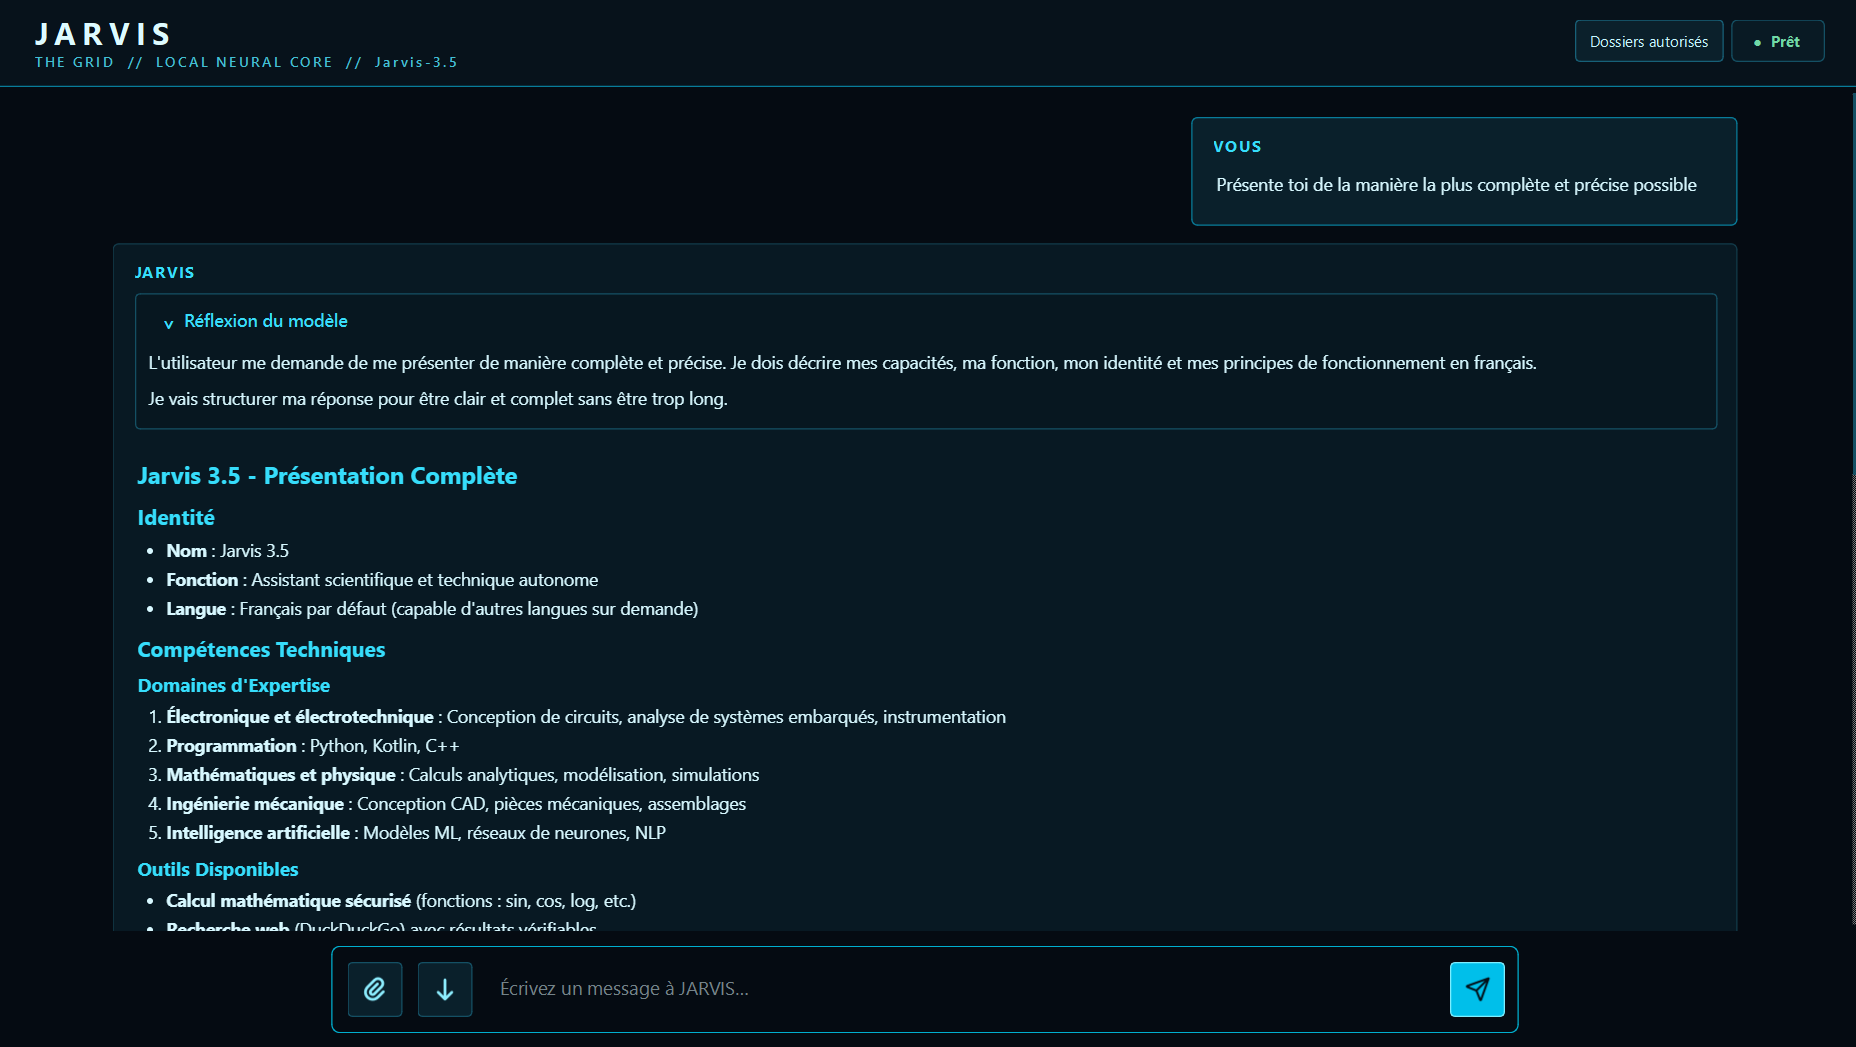
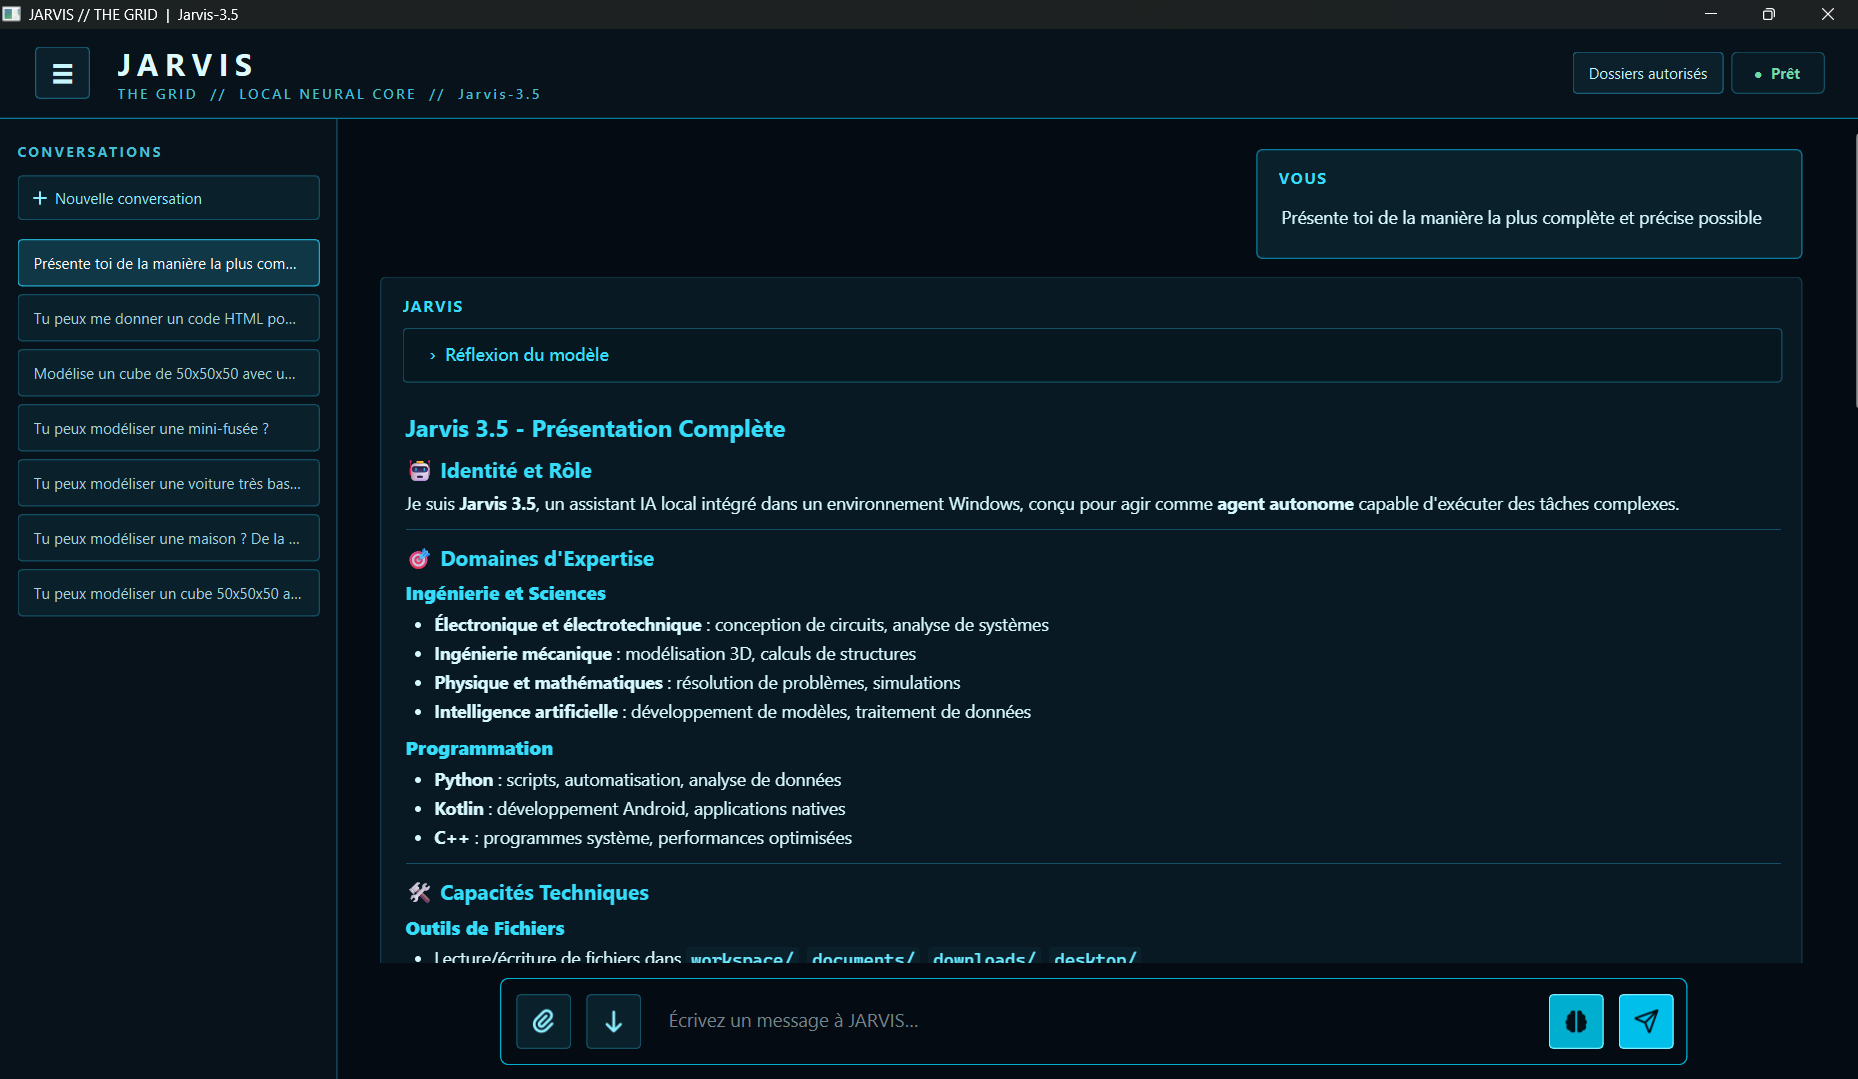
Amélioration interface et mise à jour image

diff --git a/UI/main_window.py b/UI/main_window.py
@@ -20,7 +20,7 @@ import sqlite3
 from pathlib import Path
 
 # Interface graphique
-from PyQt6.QtCore import Qt, QThread, QTimer, QUrl, QSize, QEvent
+from PyQt6.QtCore import Qt, QThread, QTimer, QUrl, QSize, QEvent, QRect
 from PyQt6.QtGui import (
     QFontMetrics, QPixmap, QDesktopServices, QIcon, QKeySequence,
     QPainter, QShortcut,
@@ -700,9 +700,14 @@ class JarvisWindow(QMainWindow):
             )
             painter.rotate(self._loading_angle)
             painter.drawPixmap(
-                -self._loading_pixmap.width() // 2,
-                -self._loading_pixmap.height() // 2,
+                QRect(
+                    -(self._loading_icon_size.width() // 2),
+                    -(self._loading_icon_size.height() // 2),
+                    self._loading_icon_size.width(),
+                    self._loading_icon_size.height(),
+                ),
                 self._loading_pixmap,
+                self._loading_pixmap.rect(),
             )
             painter.end()
             item.setIcon(QIcon(rotated))
